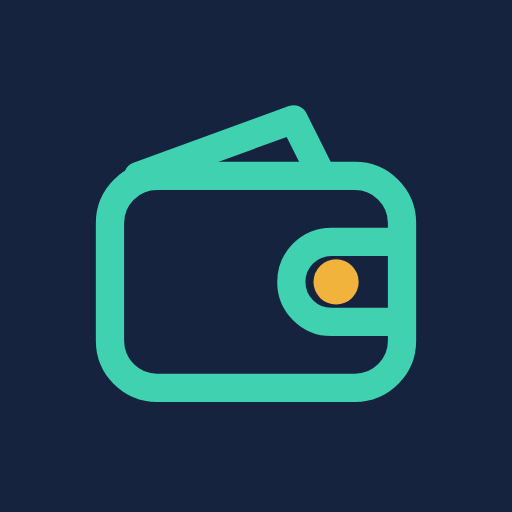
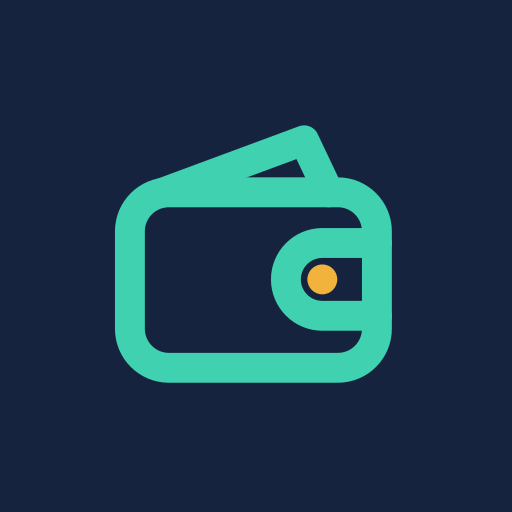
Icônes nettes : redessinées en vectoriel et rendues avec lissage des bords
Claude-Session: https://claude.ai/code/session_01BSJJ47UcXAZ5iQxA68haju

Changed region(s): [[0.1875, 0.1875, 0.8125, 0.8125]]

diff --git a/index.html b/index.html
@@ -7,9 +7,9 @@
 <meta name="description" content="Budget Flow — gestion financière personnelle et suivi de petits projets, 100 % local.">
 <title>Budget Flow</title>
 <link rel="manifest" href="manifest.webmanifest">
-<link rel="icon" type="image/png" sizes="32x32" href="icon-32.png?v=tl2">
-<link rel="icon" type="image/png" sizes="192x192" href="icon-192.png?v=tl2">
-<link rel="apple-touch-icon" href="apple-touch-icon.png?v=tl2">
+<link rel="icon" type="image/png" sizes="32x32" href="icon-32.png?v=tl3">
+<link rel="icon" type="image/png" sizes="192x192" href="icon-192.png?v=tl3">
+<link rel="apple-touch-icon" href="apple-touch-icon.png?v=tl3">
 <meta name="mobile-web-app-capable" content="yes">
 <meta name="apple-mobile-web-app-capable" content="yes">
 <meta name="apple-mobile-web-app-status-bar-style" content="default">
@@ -2127,7 +2127,7 @@ function tlwHTML(c){return '<div class="tlw" style="--tlw:'+c.accent+'"><div cla
 function renderLock(err = '') {
   const lic = getLic(), ti = trialInfo();
   document.body.classList.add('locked');
-  if (!ti.started && !isActivated() && !TLW_FULL) { $('#lock').innerHTML = tlwHTML({accent:'#0f766e',icon:'icon-192.png?v=tl2',name:'Budget Flow',by:'par Thousand Labs',l1:'Maîtrisez votre argent,',l2:'jour après jour.',sub:'Budget, dépenses, épargne et petits projets. 100 % privé, même sans Internet.',prev:'<div class="tlw-ph"><span>Octobre</span><span>Exemple</span></div><div class="tlw-big">Solde : 84 500 F</div><div class="tlw-row"><span><b>Loyer</b><div class="tlw-bar"><i style="width:100%"></i></div></span><b>35 000 F</b></div><div class="tlw-row"><span><b>Woyofal</b><div class="tlw-bar"><i style="width:80%"></i></div></span><b>8 000 F</b></div><div class="tlw-row"><span><b>Nourriture</b><div class="tlw-bar"><i style="width:72%"></i></div></span><b>21 500 F</b></div>',feats:[['<svg width="20" height="20" viewBox="0 0 24 24" fill="none" stroke="currentColor" stroke-width="2" stroke-linecap="round" stroke-linejoin="round" aria-hidden="true"><rect x="4" y="3" width="16" height="18" rx="2"/><path d="M8 8h8M8 12h8M8 16h5"/></svg>','Journal des dépenses','Chaque franc noté, avec des enveloppes par poste'],['<svg width="20" height="20" viewBox="0 0 24 24" fill="none" stroke="currentColor" stroke-width="2" stroke-linecap="round" stroke-linejoin="round" aria-hidden="true"><rect x="3" y="5" width="18" height="16" rx="2"/><path d="M3 10h18M8 3v4M16 3v4"/></svg>','Mode survie','Combien de jours pouvez-vous tenir ?'],['<svg width="20" height="20" viewBox="0 0 24 24" fill="none" stroke="currentColor" stroke-width="2" stroke-linecap="round" stroke-linejoin="round" aria-hidden="true"><rect x="5" y="11" width="14" height="10" rx="2"/><path d="M8 11V7a4 4 0 0 1 8 0v4"/></svg>','Sans inscription','100 % privé, tout reste sur votre téléphone']],cta:'Essayer gratuitement 48 h',start:'trial-start',price:'Puis 10 000 F, une seule fois',have:'J’ai déjà un code',full:'lock-full',sw:TLL.switcher()}); return; }
+  if (!ti.started && !isActivated() && !TLW_FULL) { $('#lock').innerHTML = tlwHTML({accent:'#0f766e',icon:'icon-192.png?v=tl3',name:'Budget Flow',by:'par Thousand Labs',l1:'Maîtrisez votre argent,',l2:'jour après jour.',sub:'Budget, dépenses, épargne et petits projets. 100 % privé, même sans Internet.',prev:'<div class="tlw-ph"><span>Octobre</span><span>Exemple</span></div><div class="tlw-big">Solde : 84 500 F</div><div class="tlw-row"><span><b>Loyer</b><div class="tlw-bar"><i style="width:100%"></i></div></span><b>35 000 F</b></div><div class="tlw-row"><span><b>Woyofal</b><div class="tlw-bar"><i style="width:80%"></i></div></span><b>8 000 F</b></div><div class="tlw-row"><span><b>Nourriture</b><div class="tlw-bar"><i style="width:72%"></i></div></span><b>21 500 F</b></div>',feats:[['<svg width="20" height="20" viewBox="0 0 24 24" fill="none" stroke="currentColor" stroke-width="2" stroke-linecap="round" stroke-linejoin="round" aria-hidden="true"><rect x="4" y="3" width="16" height="18" rx="2"/><path d="M8 8h8M8 12h8M8 16h5"/></svg>','Journal des dépenses','Chaque franc noté, avec des enveloppes par poste'],['<svg width="20" height="20" viewBox="0 0 24 24" fill="none" stroke="currentColor" stroke-width="2" stroke-linecap="round" stroke-linejoin="round" aria-hidden="true"><rect x="3" y="5" width="18" height="16" rx="2"/><path d="M3 10h18M8 3v4M16 3v4"/></svg>','Mode survie','Combien de jours pouvez-vous tenir ?'],['<svg width="20" height="20" viewBox="0 0 24 24" fill="none" stroke="currentColor" stroke-width="2" stroke-linecap="round" stroke-linejoin="round" aria-hidden="true"><rect x="5" y="11" width="14" height="10" rx="2"/><path d="M8 11V7a4 4 0 0 1 8 0v4"/></svg>','Sans inscription','100 % privé, tout reste sur votre téléphone']],cta:'Essayer gratuitement 48 h',start:'trial-start',price:'Puis 10 000 F, une seule fois',have:'J’ai déjà un code',full:'lock-full',sw:TLL.switcher()}); return; }
   const trialHtml = ti.active
     ? `<div class="alert alert-amber"><span class="a-ic">🎁</span><span>Essai gratuit en cours : il reste ${fmtLeft(ti.left)}</span></div><button type="button" class="btn btn-block" data-action="trial-back">← Continuer l'essai gratuit</button>`
     : ti.started

diff --git a/sw.js b/sw.js
@@ -1,7 +1,7 @@
 /* Budget Flow — service worker : appli disponible hors ligne, mises à jour automatiques */
-const CACHE = 'budget-flow-v3.12';
+const CACHE = 'budget-flow-v3.13';
 const PREFIX = 'budget-flow-v'; /* les applis Thousand Labs partagent le même domaine : on ne touche qu'à NOS caches */
-const ASSETS = ['./', './index.html', './manifest.webmanifest', './icon-192.png?v=tl2', './icon-512.png?v=tl2', './apple-touch-icon.png?v=tl2'];
+const ASSETS = ['./', './index.html', './manifest.webmanifest', './icon-192.png?v=tl3', './icon-512.png?v=tl3', './apple-touch-icon.png?v=tl3'];
 const OFFLINE = () => new Response(
         '<!doctype html><meta charset="utf-8"><meta name="viewport" content="width=device-width,initial-scale=1"><body style="font-family:sans-serif;padding:24px;text-align:center"><h2>Hors ligne</h2><p>Ouvrez l\'appli une fois avec une connexion pour l\'activer hors ligne, puis réessayez.</p></body>',
         { headers: { 'Content-Type': 'text/html; charset=utf-8' } });
